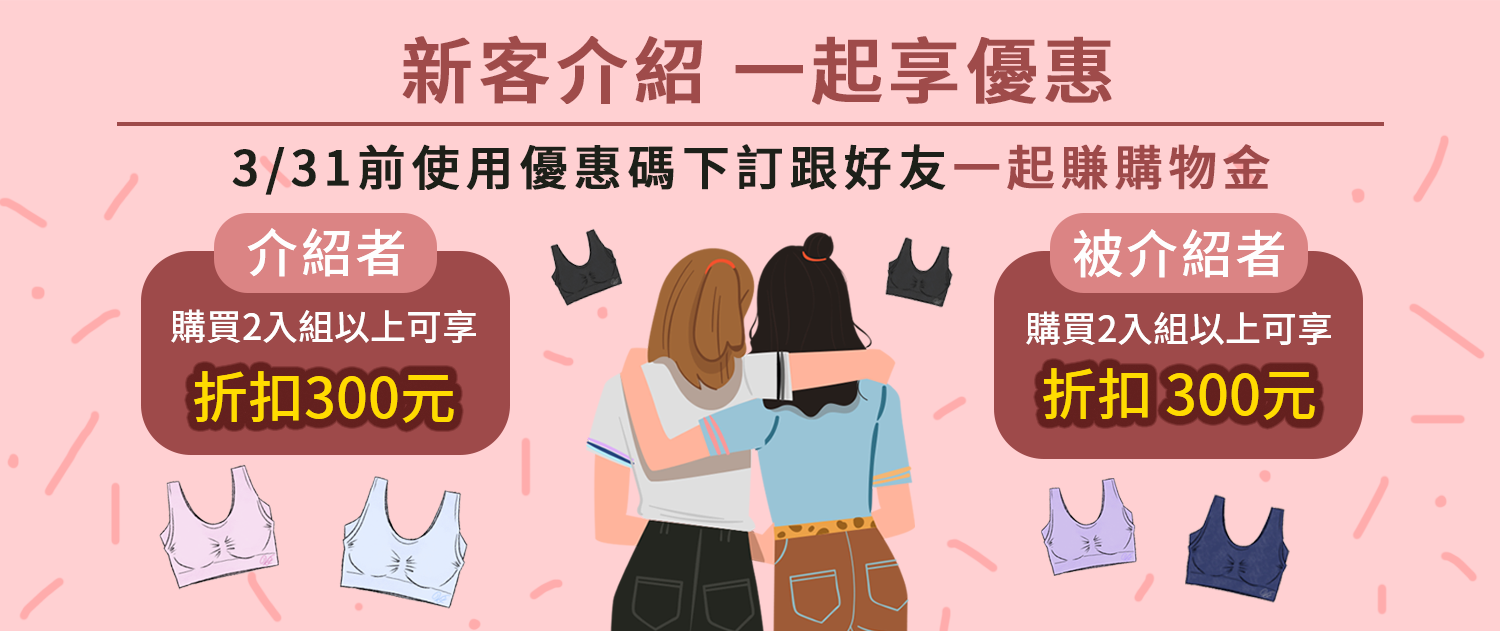
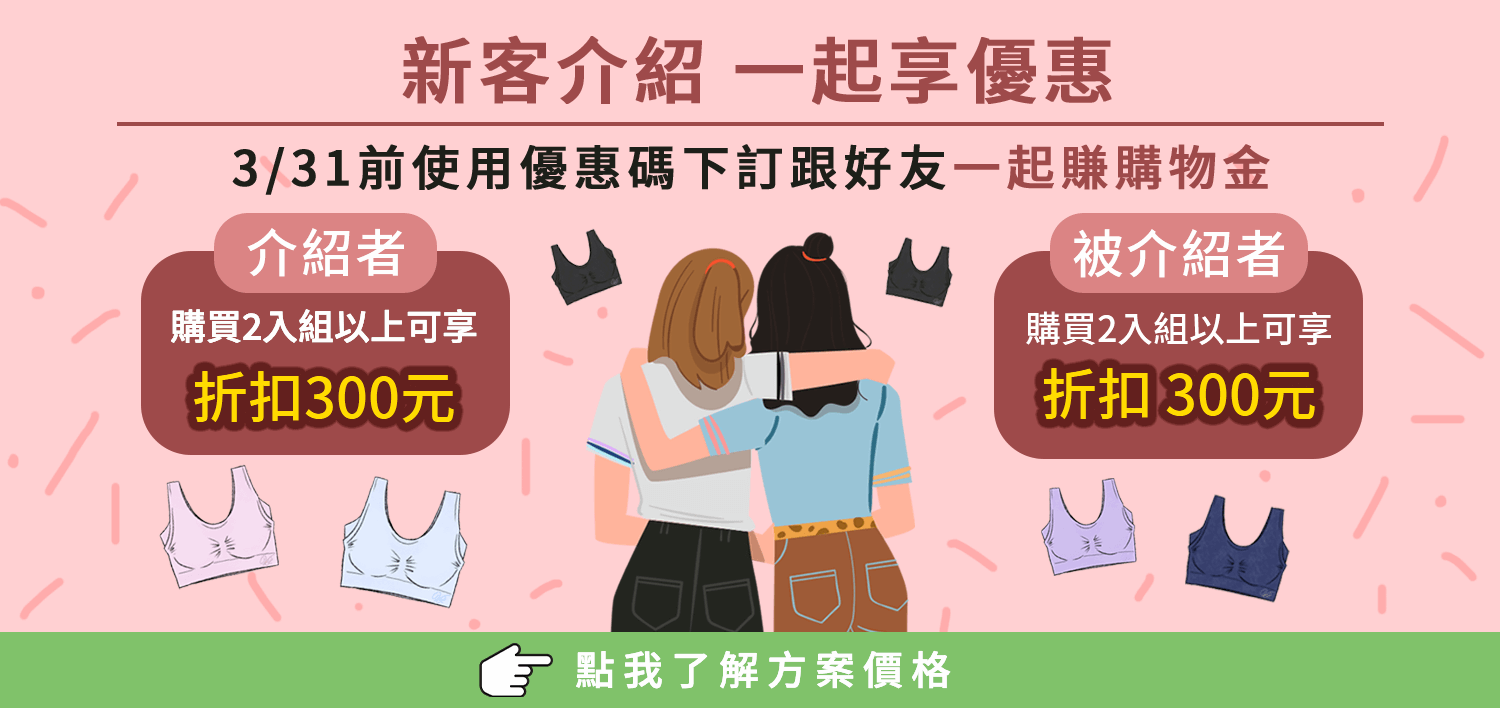
20210325_edite offer btn & 02_introduced_1 img

diff --git a/index.html b/index.html
@@ -123,14 +123,18 @@
             <div class="PC">
                 <img src="./img/01_banner.jpg" alt="">
                 <img src="./img/01.jpg" alt="">
-                <img src="./img/02_introduced_1.png" style="width:70%;" alt="">
+                <a href="#offer">
+                    <img src="./img/02_introduced_1.png" style="width:70%;" alt="">
+                </a>
                 <img src="./img/03.jpg" style="width:70%;" alt="">
                 <img src="./img/ig_title.jpg" alt="" style="width:70%;">
             </div>
             <div class="SP">
                 <img src="./img/SP/SP_01_banner.jpg" alt="">
                 <img src="./img/SP/SP_01.jpg" alt="">
-                <img src="./img/SP/SP_02_introduced_1.png" alt="">
+                <a href="#offer">
+                    <img src="./img/SP/SP_02_introduced_1.png" alt="">
+                </a>
                 <img src="./img/SP/SP_03.jpg" alt="">
                 <img src="./img/SP/SP_ig_title.jpg" alt="">
             </div>
@@ -139,6 +143,7 @@
                     <div class="ig_slider"></div>
                 </div>
             </section>
+            <a id="offer"></a>
             <div class="PC">
                 <div class="offerbox">
                     <img src="./img/05.jpg" style="width:70%;" alt="">

diff --git a/css/style.css b/css/style.css
@@ -25,10 +25,10 @@ html,body {
 
 .PC .offerbox .offerbtn{
     position: absolute;
-    width: 20%;
+    width: 26%;
     display: block;
     bottom: 8%;
-    right: 40%;
+    right: 38%;
 }
 
 .SP .offerbox_m{
@@ -37,18 +37,18 @@ html,body {
 
 .SP .offerbox_m .offerbtn_m_1{
     position: absolute;
-    width: 63%;
+    width: 70%;
     display: block;
-    right: 18%;
+    right: 15%;
     top: 40.5%;
 }
 
 .SP .offerbox_m .offerbtn_m_2{
     position: absolute;
-    width: 63%;
+    width: 70%;
     display: block;
-    right: 18%;
-    bottom: 1%;
+    right: 15%;
+    bottom: 2%;
 }
 
 .offerbtn:hover{

diff --git a/js/all.js b/js/all.js
@@ -19,6 +19,14 @@ $(document).ready(function () {
         },900);
     });
 
+    // 點我了解方案價格
+    $('a[href="#offer"]').click(function (e) { 
+        e.preventDefault();
+        $('html , body').animate({
+            scrollTop: $('#offer').offset().top,
+        },900);
+    });
+
     //聊天機器人
     $(window).scroll(function () {
         var scrollPos = $(window).scrollTop();
